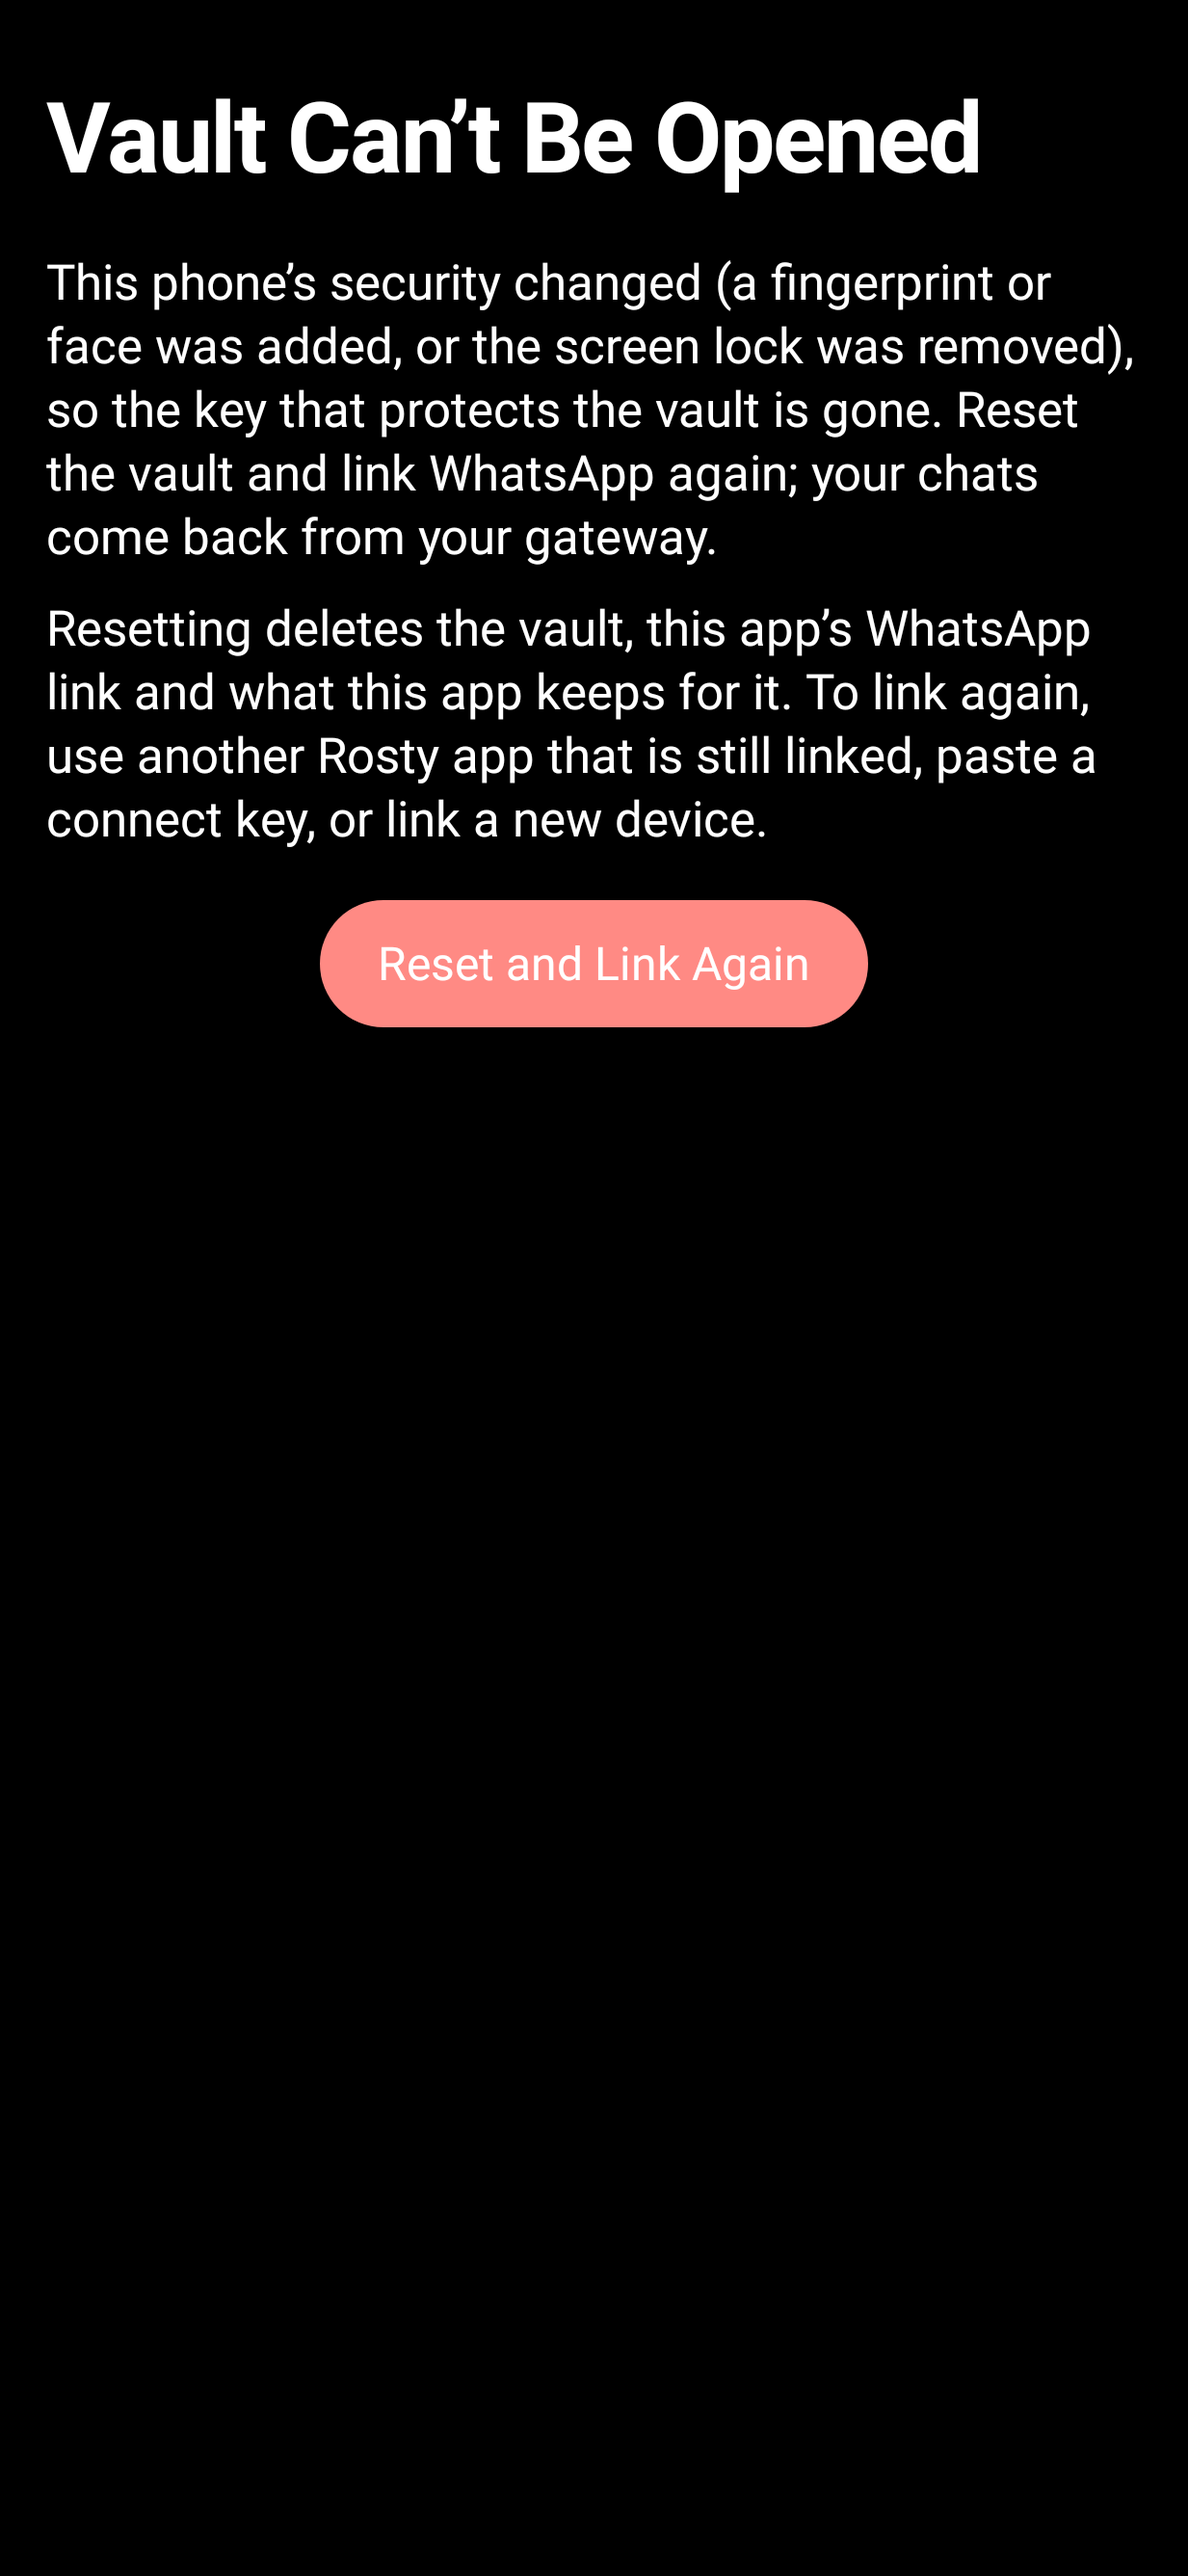
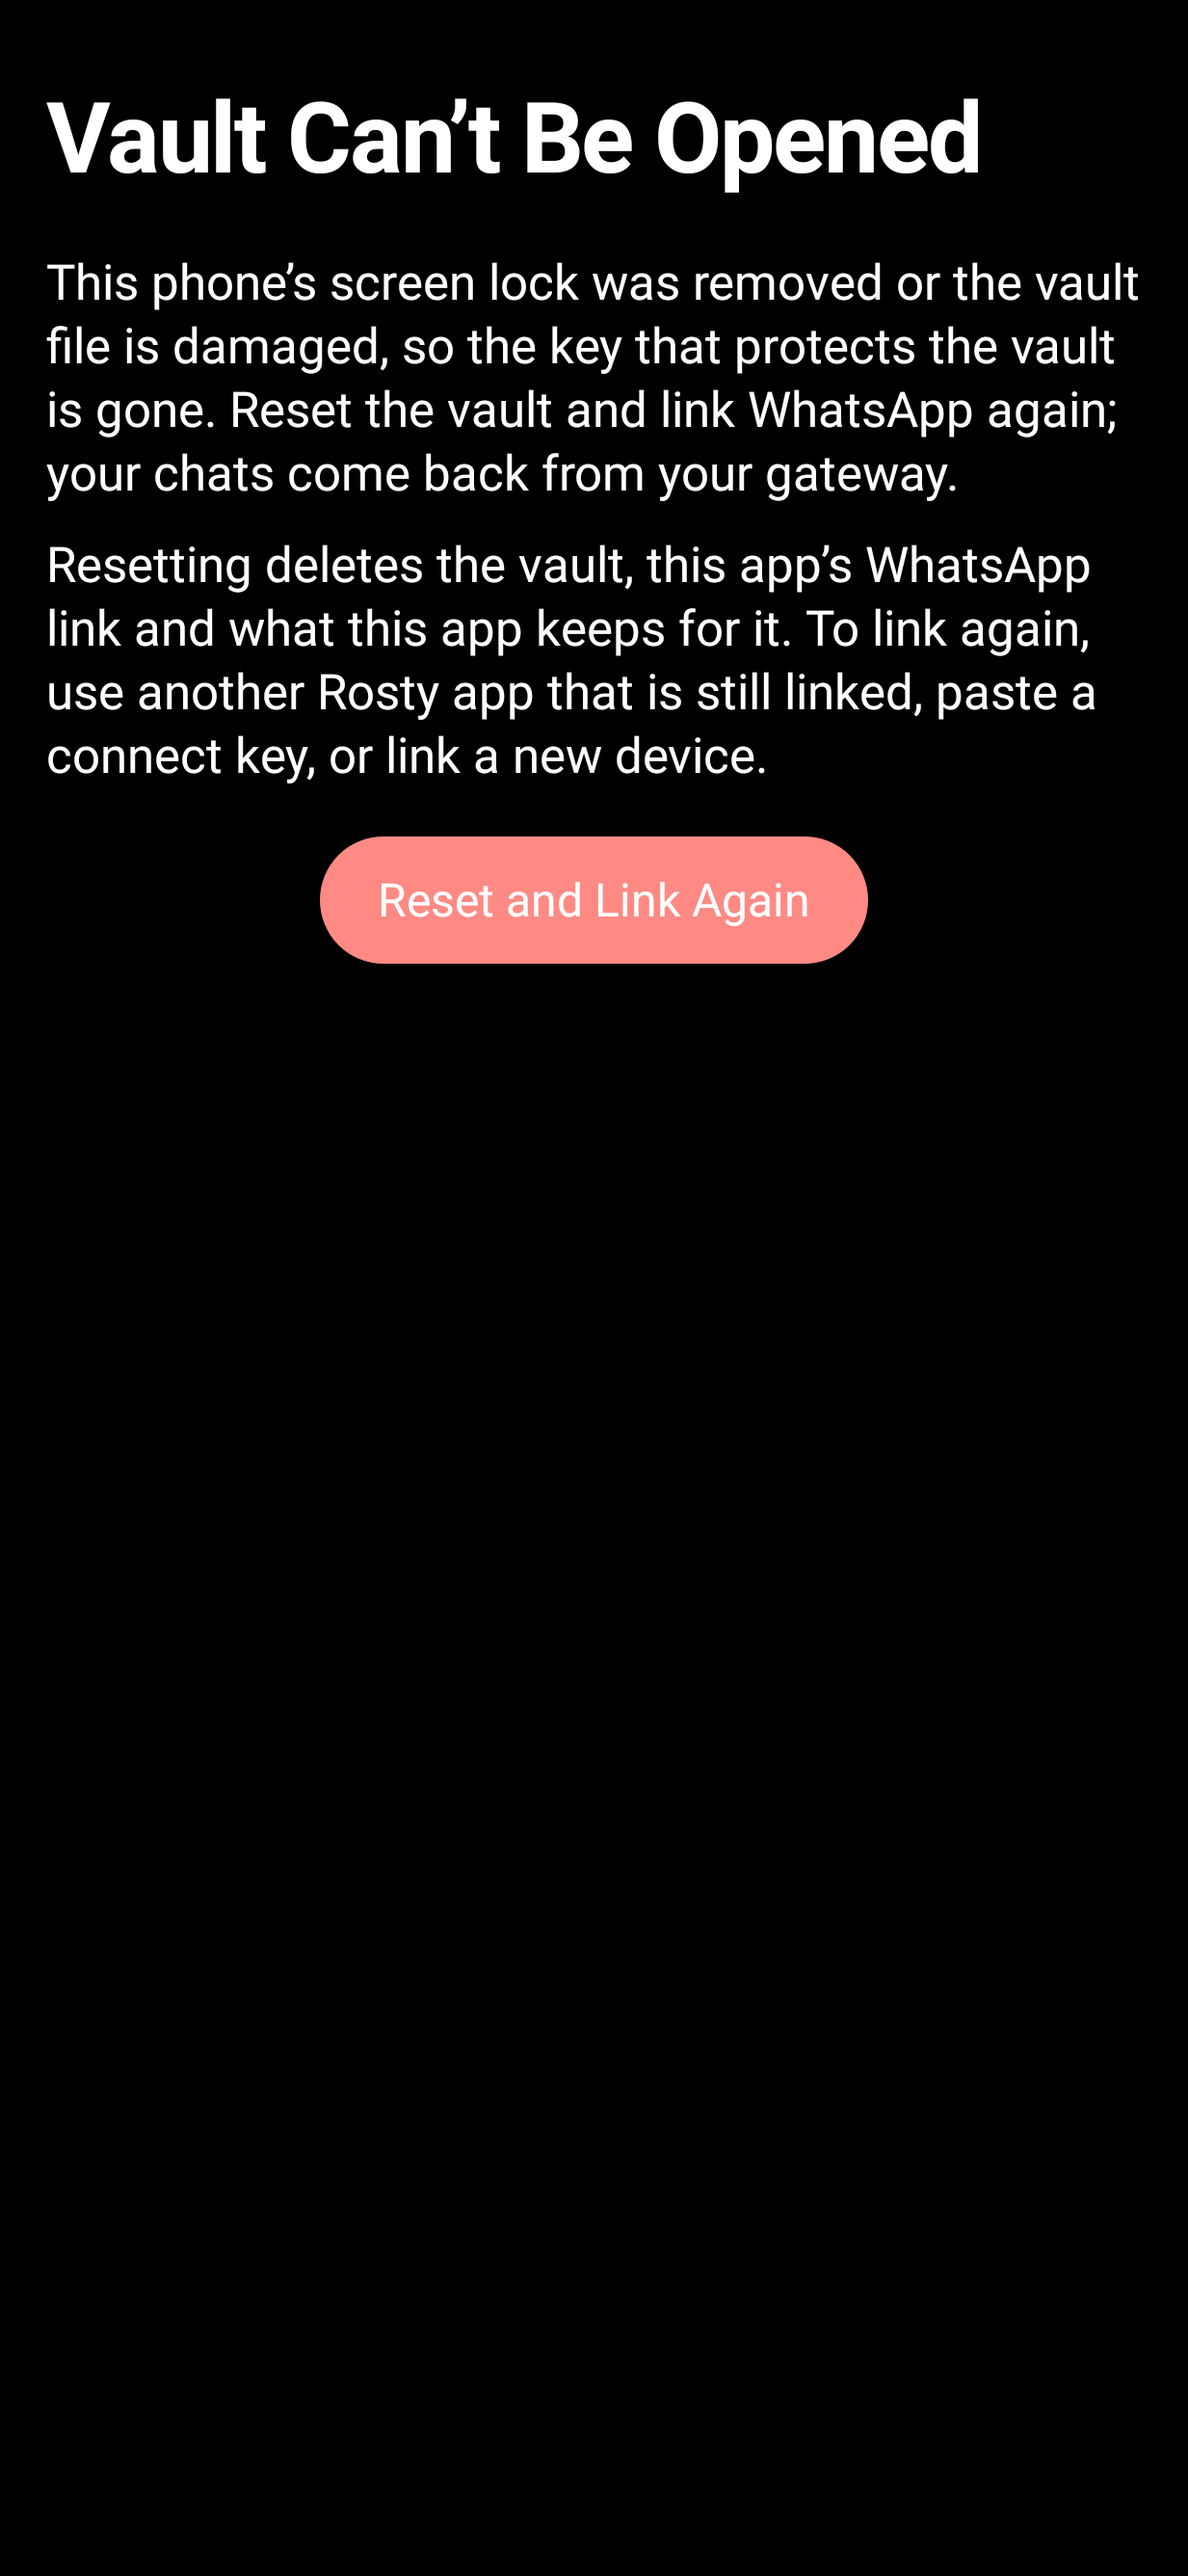
vault: a biometric enrolment drops only the daily key, K_hw survives it
The vault asks for the passphrase once and seals a new daily key instead of becoming unreadable.

Claude-Session: https://claude.ai/code/session_011osUp7hJaTJ5eYZ2ceccyY

Changed region(s): [[0.0308, 0.0932, 0.9554, 0.4037]]

diff --git a/android/platform/src/main/kotlin/dev/rosty/platform/vault/AndroidVaultKeystore.kt b/android/platform/src/main/kotlin/dev/rosty/platform/vault/AndroidVaultKeystore.kt
@@ -179,7 +179,11 @@ class AndroidVaultKeystore(
         private const val TRANSFORMATION = "AES/GCM/NoPadding"
         private const val KEY_BITS = 256
 
-        /** The key spec of plan 3 and 13.2: per-use authentication, unlocked phone, invalidated by enrolment. */
+        /**
+         * The key spec of plan 3 and 13.2: per-use authentication and an unlocked phone. Only the biometric daily key is
+         * invalidated by a new enrolment (the vault then asks for the passphrase once and seals a new daily key); K_hw
+         * survives it, so an enrolment never makes the vault unreadable.
+         */
         fun spec(
             alias: String,
             auth: VaultKeyAuth,
@@ -207,8 +211,8 @@ class AndroidVaultKeystore(
                 .setUserAuthenticationRequired(true)
                 // 0: every single operation needs its own authentication (a CryptoObject prompt).
                 .setUserAuthenticationParameters(0, types)
-                // Enrolling a biometric destroys a key a biometric can open (a credential-only key has none to change).
-                .setInvalidatedByBiometricEnrollment(auth != VaultKeyAuth.Credential)
+                // Enrolling a biometric destroys only the biometric daily key; K_hw and a screen-lock key stay.
+                .setInvalidatedByBiometricEnrollment(auth == VaultKeyAuth.Biometric)
                 .setUnlockedDeviceRequired(true)
                 .setIsStrongBoxBacked(strongBox)
                 .build()

diff --git a/android/platform/src/test/kotlin/dev/rosty/platform/vault/VaultKeystoreTest.kt b/android/platform/src/test/kotlin/dev/rosty/platform/vault/VaultKeystoreTest.kt
@@ -26,7 +26,8 @@ class VaultKeystoreTest {
             KeyProperties.AUTH_BIOMETRIC_STRONG or KeyProperties.AUTH_DEVICE_CREDENTIAL,
             spec.userAuthenticationType,
         )
-        assertTrue(spec.isInvalidatedByBiometricEnrollment)
+        // A new enrolment must not make the vault unreadable: it only drops the daily key.
+        assertFalse(spec.isInvalidatedByBiometricEnrollment)
         assertTrue(spec.isUnlockedDeviceRequired)
         assertTrue(spec.isStrongBoxBacked)
         assertEquals(256, spec.keySize)
@@ -41,6 +42,7 @@ class VaultKeystoreTest {
         assertFalse(spec.isStrongBoxBacked)
         val pin = AndroidVaultKeystore.spec("rosty.wa.d.c.a", VaultKeyAuth.Credential, strongBox = false)
         assertEquals(KeyProperties.AUTH_DEVICE_CREDENTIAL, pin.userAuthenticationType)
+        assertFalse(pin.isInvalidatedByBiometricEnrollment)
         assertTrue(pin.isUnlockedDeviceRequired)
     }
 

diff --git a/android/wa/src/main/kotlin/dev/rosty/wa/vault/WaVault.kt b/android/wa/src/main/kotlin/dev/rosty/wa/vault/WaVault.kt
@@ -55,8 +55,8 @@ sealed interface WaVaultState {
     data object Unlocked : WaVaultState
 
     /**
-     * The vault cannot be opened on this phone any more: its Keystore key is gone (a biometric was enrolled, the screen
-     * lock was removed) or the file is damaged. Only a reset and a new link help.
+     * The vault cannot be opened on this phone any more: its Keystore key is gone (the screen lock was removed; a new
+     * biometric enrolment only drops the daily key) or the file is damaged. Only a reset and a new link help.
      */
     data object Broken : WaVaultState
 }

diff --git a/_bmad-output/kotlin-ui/plans/wa-vault.md b/_bmad-output/kotlin-ui/plans/wa-vault.md
@@ -192,7 +192,7 @@ Round 4, the Keystore, the vault screens, the lock lifecycle and Messages (`:pla
   JVM tests): AES-256-GCM keys generated in AndroidKeyStore, non-exportable, StrongBox when the phone has it (a
   `StrongBoxUnavailableException` falls back to the TEE), `setUnlockedDeviceRequired(true)`,
   `setUserAuthenticationParameters(0, …)` (every seal and open is its own `BiometricPrompt` with a `CryptoObject`).
-  K_hw `rosty.wa.k.<id>`: Class 3 biometric or screen lock, `setInvalidatedByBiometricEnrollment(true)`. K_daily
+  K_hw `rosty.wa.k.<id>`: Class 3 biometric or screen lock, not invalidated by enrolment (see the owner change below). K_daily
   `rosty.wa.d.b.<id>` (Class 3 biometric only) or `rosty.wa.d.c.<id>` (screen lock only, on a phone with no Class 3
   biometric enrolled; dropped as soon as one is). Sealed blobs are `0x01 | GCM nonce 12 | ciphertext+tag`, base64; only
   the opaque blobs of round 2 cross (Kotlin never holds DK, DDK or the connect key). A new K_hw alias per passphrase,
@@ -216,8 +216,10 @@ Round 4, the Keystore, the vault screens, the lock lifecycle and Messages (`:pla
 - Deviation (safer): after a passphrase change the daily unlock is not offered at once (a fresh `vault.unlock` would
   replace the session and release the gateway in use); the next unlock asks for the new passphrase once
   (`PassphraseReason.NewPassphrase`).
-- Deviation (as planned, but harsh): K_hw is invalidated by a biometric enrolment (plan 3). The vault then cannot be
-  opened (`Broken`): the page says why and offers only the reset and a new link.
+- Owner change (2026-11-18, replaces the harsh deviation): a biometric enrolment invalidates only the biometric
+  K_daily. K_hw no longer uses `setInvalidatedByBiometricEnrollment`, so the vault asks for the passphrase once and
+  seals a new daily key, as plan 6 and 13.2 list. `Broken` is left for a removed screen lock or a damaged file. This
+  overrides the `setInvalidatedByBiometricEnrollment(true)` on K_hw in section 3.
 - The drop rules (13.2): Rust drops the daily blob on another boot count, after 72 h and on a clock set back (read
   with `vault.state {boot_count, now_ms}` at every refresh and unlock); `BootReceiver` drops it on
   `BOOT_COMPLETED` (only when `wa-vault-daily.json` exists, so a phone without a vault starts no core); five failed
